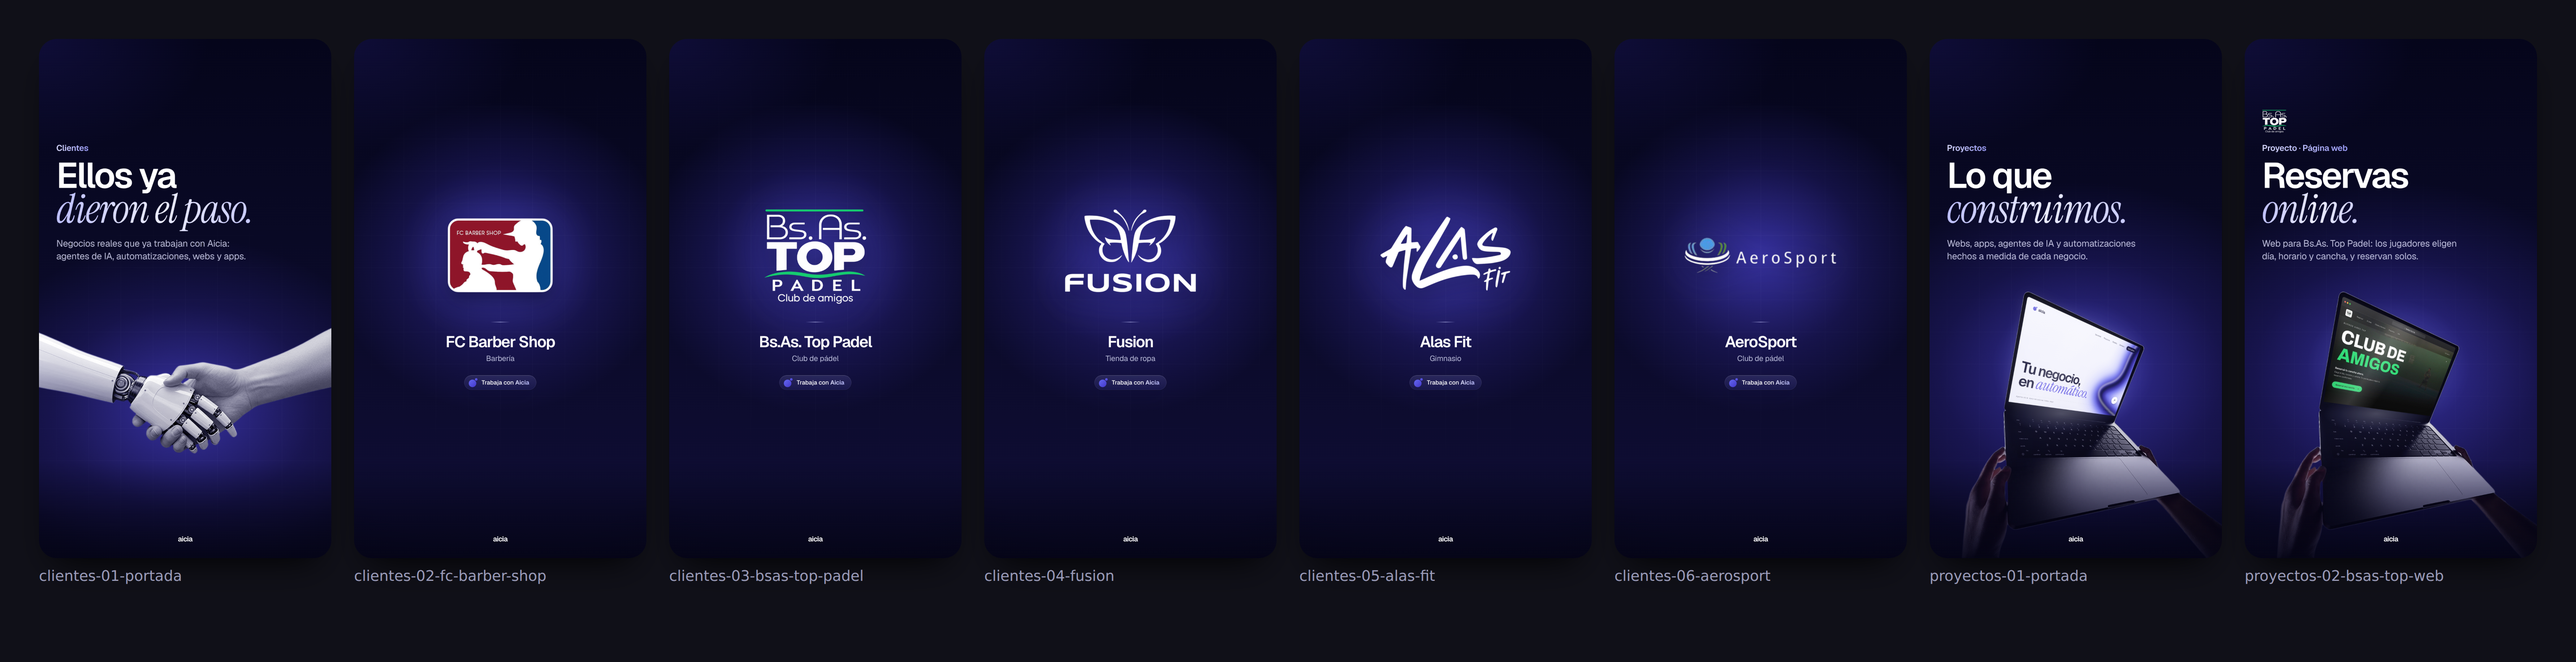
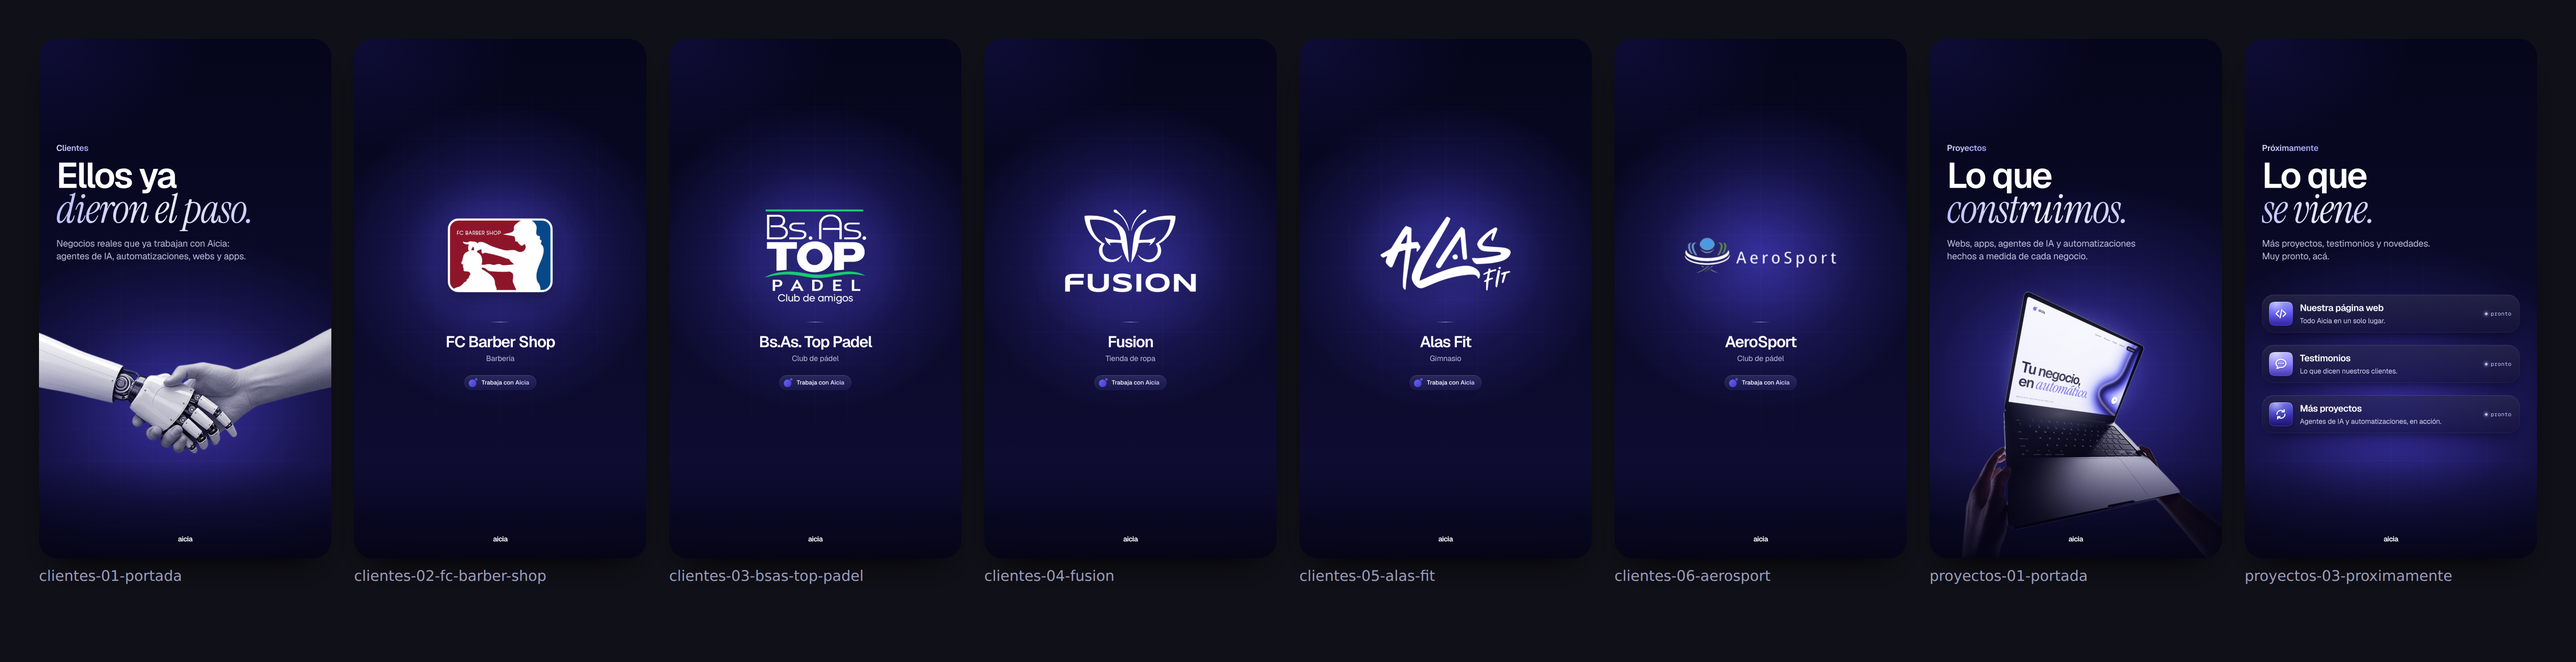
Proyectos: historia "Próximamente" (página web, testimonios y más proyectos)
Claude-Session: https://claude.ai/code/session_01SBSshHAET78NiDLxszLW9R

Changed region(s): [[0.8739, 0.2188, 0.9987, 0.7812], [0.9051, 0.8438, 0.9675, 0.875], [0.8739, 0.1562, 0.9051, 0.1875]]

diff --git a/historias/clientes-proyectos/historias.html b/historias/clientes-proyectos/historias.html
@@ -239,6 +239,21 @@ svg.app .gl .f{fill:#fff;stroke:none}
 .card .pill .lg-i{width:34px;height:34px;margin-left:-6px;flex:none}
 .card .pill b{font-weight:600;background:linear-gradient(90deg,#E4E5FF,#B9BBFF);-webkit-background-clip:text;background-clip:text;-webkit-text-fill-color:transparent}
 
+/* Proyectos · Próximamente: lo que se viene, en tarjetas de vidrio (sin fechas ni números inventados) */
+.p3{--gx:50%;--gy:72%;--gw:1150px;--gh:900px}
+.p3 .eyebrow{left:var(--m);top:384px}
+.p3 .title{left:var(--m);top:440px;font-size:132px}
+.p3 .title .serif{font-size:150px}
+.p3 .lede{left:var(--m);top:734px;width:952px}
+.soon{left:var(--m);width:952px;display:flex;align-items:center;gap:26px;padding:26px 30px 26px 26px;border-radius:44px;z-index:4;
+  background:linear-gradient(180deg,rgba(255,255,255,.09),rgba(255,255,255,.03)),rgba(11,10,34,.72)!important}
+.soon svg.app{width:88px;height:88px}
+.soon .nt{flex:1;min-width:0;display:flex;flex-direction:column;gap:8px}
+.soon b{font-size:34px;font-weight:600;letter-spacing:-0.025em;color:#fff;white-space:nowrap}
+.soon p{font-size:26px;color:#D2D4EE;letter-spacing:-0.008em;white-space:nowrap}
+.soon .st{display:flex;align-items:center;gap:12px;font-family:"Geist Mono",ui-monospace,monospace;font-size:20px;letter-spacing:.04em;color:#C7C9FF;white-space:nowrap}
+.soon .st i{width:9px;height:9px;border-radius:50%;background:var(--lav);box-shadow:0 0 0 4px rgba(199,201,255,.14),0 0 14px 2px rgba(199,201,255,.65)}
+
 /* Proyectos: foto real de manos con MacBook + sitio de Aicia en perspectiva */
 .p1{--gx:52%;--gy:64%;--gw:1250px;--gh:1000px}
 .lap{z-index:2;isolation:isolate}
@@ -453,6 +468,20 @@ svg.app .gl .f{fill:#fff;stroke:none}
   <div class="eyebrow tx">Proyectos</div>
   <h1 class="title tx">Lo que<br><span class="serif">construimos.</span></h1>
   <p class="lede tx">Webs, apps, agentes de IA y automatizaciones<br>hechos a medida de cada negocio.</p>
+  <div class="vignette"></div><div class="grain"></div>
+  <div class="basefade"></div><div class="sig">aicia</div>
+</section>
+
+<!-- ======================= PROYECTOS · PRÓXIMAMENTE ======================= -->
+<!-- Va después del video de Bs.As. Top, para que la destacada no muestre un solo proyecto. -->
+<section class="story p3" data-file="aicia-proyectos-03-proximamente.png">
+  <div class="stage"></div><div class="grid"></div>
+  <div class="eyebrow tx">Próximamente</div>
+  <h1 class="title tx">Lo que<br><span class="serif">se viene.</span></h1>
+  <p class="lede tx">Más proyectos, testimonios y novedades.<br>Muy pronto, acá.</p>
+  <div class="soon glass" style="top:946px"><svg class="app" viewBox="0 0 100 100" data-g="g-code" data-s="ap-indigo"></svg><div class="nt"><b>Nuestra página web</b><p>Todo Aicia en un solo lugar.</p></div><span class="st"><i></i>pronto</span></div>
+  <div class="soon glass" style="top:1132px"><svg class="app" viewBox="0 0 100 100" data-g="g-message" data-s="ap-light"></svg><div class="nt"><b>Testimonios</b><p>Lo que dicen nuestros clientes.</p></div><span class="st"><i></i>pronto</span></div>
+  <div class="soon glass" style="top:1318px"><svg class="app" viewBox="0 0 100 100" data-g="g-flow" data-s="ap-deep"></svg><div class="nt"><b>Más proyectos</b><p>Agentes de IA y automatizaciones, en acción.</p></div><span class="st"><i></i>pronto</span></div>
   <div class="vignette"></div><div class="grain"></div>
   <div class="basefade"></div><div class="sig">aicia</div>
 </section>

diff --git a/CLAUDE.md b/CLAUDE.md
@@ -18,7 +18,7 @@ Hay 3 destacadas, como máximo: **Aicia**, **Clientes** y **Proyectos**.
 | Carpeta | Qué es | Estado |
 |---|---|---|
 | `historias/destacada-aicia/` | 5 historias "¿Qué es Aicia?" (`destacada.html`) | **Final, aprobada** |
-| `historias/clientes-proyectos/` | Portada de Clientes + 5 tarjetas de clientes + 2 de Proyectos (`historias.html`) | Clientes **final**. Portada de Proyectos **final**. Historias de proyecto pendientes |
+| `historias/clientes-proyectos/` | Portada de Clientes + 5 tarjetas de clientes + Proyectos: portada, video de Bs.As. Top y "Próximamente" (`historias.html`, `video-bsas.html`) | Clientes **final**. Proyectos: portada y video **finales**, "Próximamente" esperando el OK de Guille |
 | `historias/portadas-destacadas/` | Íconos de portada de las 3 destacadas (`portadas.html`) | **Final, aprobada** |
 | `historias/que-es-aicia/` | 6 versiones viejas | No se usan, son solo referencia |
 | `historias/logo-perfil/` | Logo de Aicia para la foto de perfil, 1080×1080 (`logo.html`) | **Final: Guille eligió el plano** |
@@ -130,7 +130,7 @@ node exportar-instagram.mjs            # TODO listo para subir → historias/ins
   1. `1-foto-de-perfil`: el logo, 1080×1080.
   2. `2-destacada-aicia`: la portada de la destacada (1080×1080) y las 5 historias.
   3. `3-destacada-clientes`: la portada y las 6 historias.
-  4. `4-destacada-proyectos`: la portada, la historia de portada y el MP4 de Bs.As. Top (se copia tal cual).
+  4. `4-destacada-proyectos`: la portada, la historia de portada, el MP4 de Bs.As. Top (se copia tal cual) y "Próximamente".
   5. `5-publicaciones`: las 3 azules, 1080×1350.
 
 ### Pendiente
@@ -163,5 +163,11 @@ node exportar-instagram.mjs            # TODO listo para subir → historias/ins
     - Sin `--fresh`, si los cuadros ya están, solo re-codifica (~1 min). Se ajusta con `--crf` y `--sharp`.
   - `preparar-dispositivos.mjs` encuentra la pantalla de cada foto, mide las esquinas y la pinta de negro. La máscara del pulgar del iPad está medida a mano.
   - Fotos de mockups que pasó Guille y todavía no se usan: iPhone en la mano y ventana de vidrio flotante (están en el chat, no en el repo), y el iPad con manos (`assets/ipad-manos*.png`, listo y con la máscara del pulgar).
+- **Proyectos · Próximamente** (`aicia-proyectos-03-proximamente.png`, sección `.p3`): va después del video, así la destacada no muestra un solo proyecto, como pidió Guille.
+  - "Próximamente" / "Lo que *se viene.*" / "Más proyectos, testimonios y novedades. Muy pronto, acá."
+  - Debajo van 3 tarjetas de vidrio con ícono y la marca "pronto": Nuestra página web, Testimonios y Más proyectos.
+  - Sin fechas ni números, para no prometer nada que no esté.
+  - Cuando haya testimonios o proyectos nuevos, se reemplaza.
+- Tarjetas de FC Barber Shop tipo billete de $2.000 ("¿Pensaste que era plata?"): Guille las mostró. La recomendación fue no sumarlas a Proyectos como diseño suelto. Solo entran si el QR lleva a algo que hizo Aicia (reservas o agente), contado como "del papel a la reserva". Ojo: imitan un billete real.
 - Pendiente opcional: una segunda historia de Bs.As. Top en imagen (por ejemplo, el paso de reservas en otro mockup). Máximo 2 historias por proyecto.
 - Opcional: video de demo de un proyecto si Guille pasa grabaciones de pantalla.
